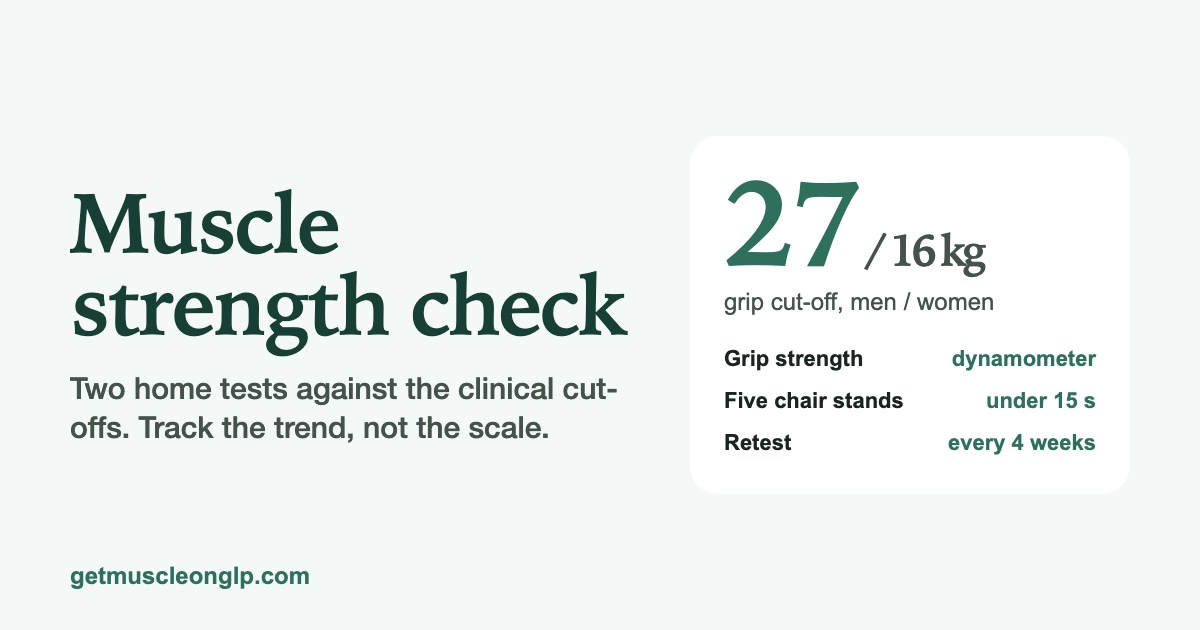
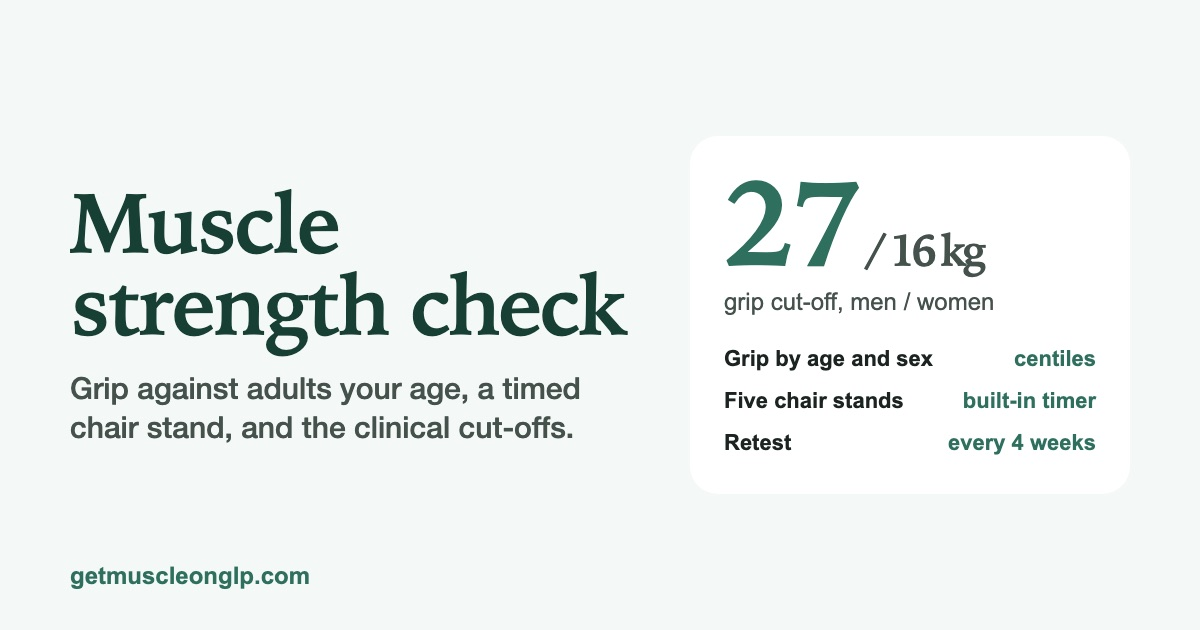
Strength check share image: grip by age and the chair-stand timer; ?v=2 so platforms refetch it

Changed region(s): [[0.0617, 0.6032, 0.5242, 0.6937], [0.6475, 0.5429, 0.925, 0.6635]]

diff --git a/muscle-strength-check/index.html b/muscle-strength-check/index.html
@@ -13,14 +13,14 @@
 <meta property="og:title" content="Muscle strength check: grip by age and a timed chair stand">
 <meta property="og:description" content="Your grip strength and chair-stand time against the clinical cut-offs, and your change over time on a GLP-1.">
 <meta property="og:url" content="https://getmuscleonglp.com/muscle-strength-check/">
-<meta property="og:image" content="https://getmuscleonglp.com/assets/og/muscle-strength-check.jpg">
+<meta property="og:image" content="https://getmuscleonglp.com/assets/og/muscle-strength-check.jpg?v=2">
 <meta property="og:image:width" content="1200">
 <meta property="og:image:height" content="630">
 <meta property="og:image:alt" content="Muscle strength check: grip strength and chair-stand test">
 <meta name="twitter:card" content="summary_large_image">
 <meta name="twitter:title" content="Muscle strength check: grip by age and a timed chair stand">
 <meta name="twitter:description" content="Grip strength and chair stand against the clinical cut-offs.">
-<meta name="twitter:image" content="https://getmuscleonglp.com/assets/og/muscle-strength-check.jpg">
+<meta name="twitter:image" content="https://getmuscleonglp.com/assets/og/muscle-strength-check.jpg?v=2">
 <script type="application/ld+json">
 {
   "@context": "https://schema.org",
